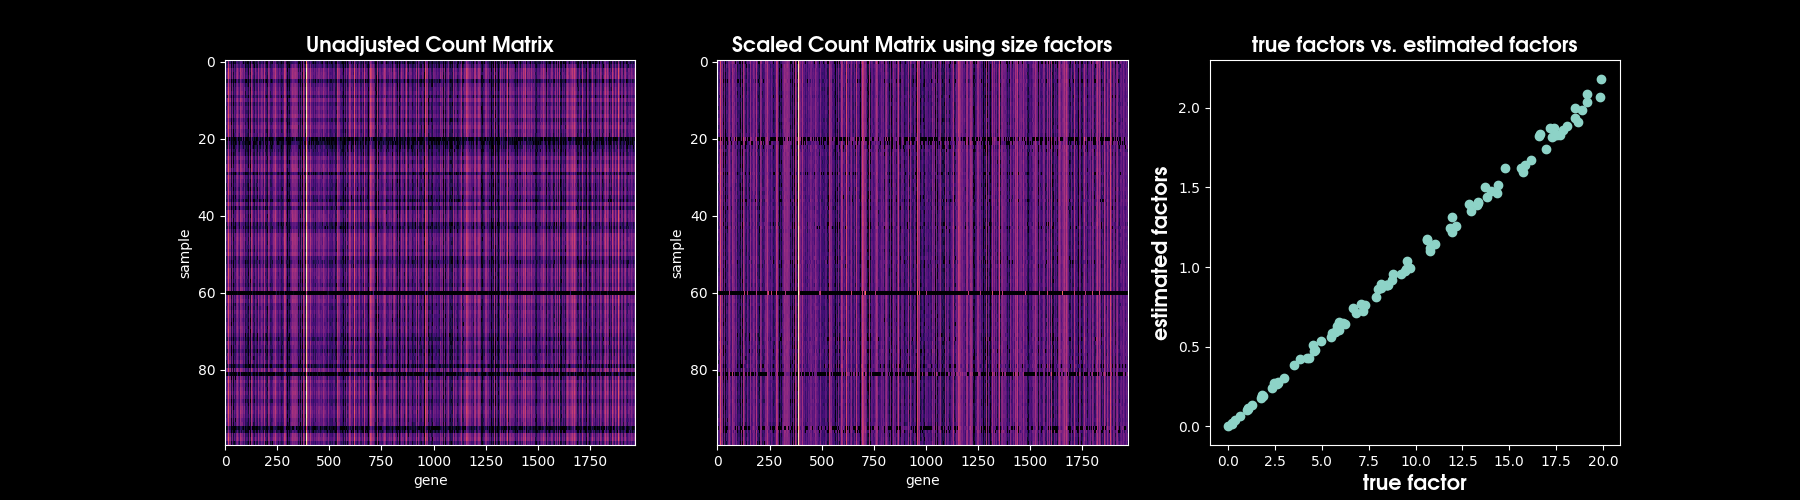
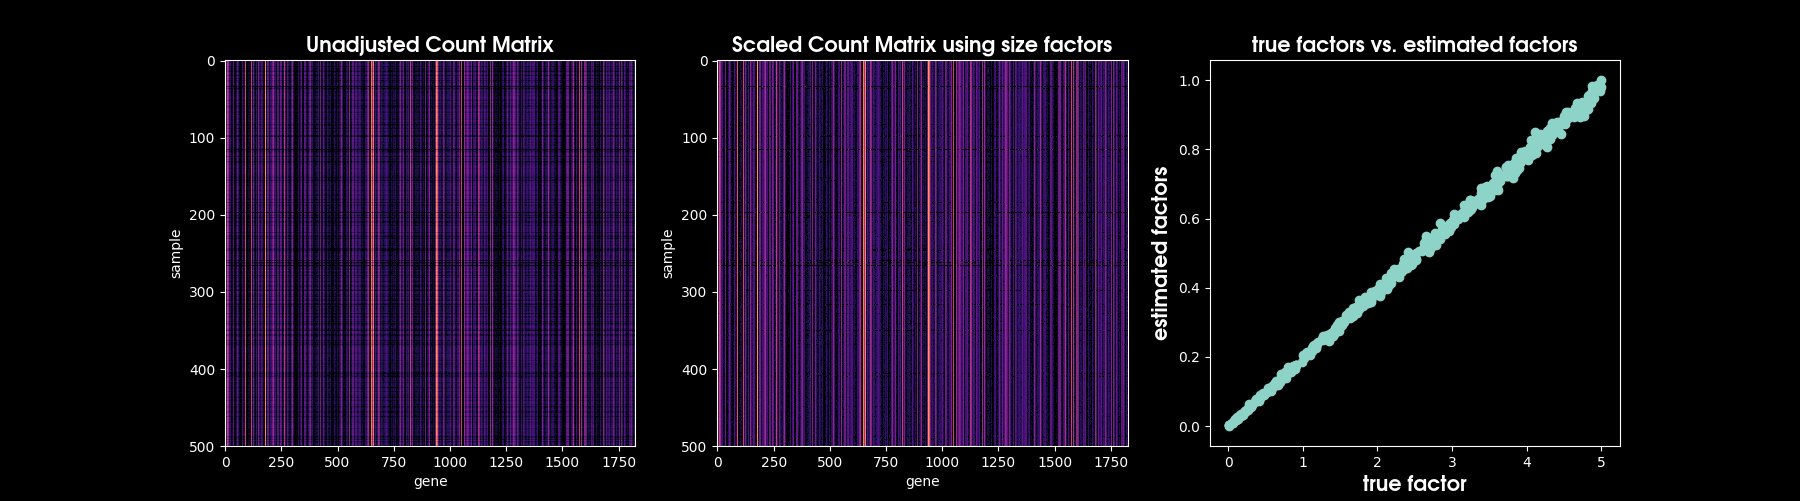
noralization and ratio change

diff --git a/GetSizeFactors.py b/GetSizeFactors.py
@@ -13,7 +13,7 @@ from scipy.stats import nbinom
 from scipy.optimize import lsq_linear
 
 def GetSizeFactors(cmat : np.ndarray,
-                   pool_size : int = 10,
+                   pool_size,
                    ) -> np.ndarray:
 
     """
@@ -94,24 +94,24 @@ def GetSizeFactors(cmat : np.ndarray,
                    for k in range(pools.shape[0])])
 
     # Pseudo cell expression profile for each gene
-    U = cmat.mean(axis=0).reshape(1,-1)
-
+    U = np.mean(Z,axis=0).reshape(1,-1)
     # Ratio of Pools and Reference
-    R = V / U
-
+    R = V / U 
     # Membership matrix for lstq
     A = np.zeros((pools.shape[0]*nsamples))
     A[pools1d] = 1.0
     # reshape memership vector into 2d matrix
     A = A.reshape((pools.shape[0],nsamples))
+
     #Matrix of estimatead theta/libsize values
     T = lsq_linear(A,
                    R.mean(axis=1),
                    bounds = (0,np.inf)).x
 
     # adjust for library size parameter
-    S = T * libsize
-
+    S =  T  * libsize
+    S = S / S.max() 
+    
     return S
 
 if __name__ == '__main__':
@@ -123,18 +123,19 @@ if __name__ == '__main__':
 
     # Simulate Dataset of non DE genes --------------------
 
-    nsamples = 100
+    nsamples = 500
     ngenes = 2000
     # parameters for nb distribution
-    n = np.repeat(np.random.randint(1,10,ngenes).reshape(1,-1),nsamples,axis = 0)
+    m = np.repeat(np.random.randint(1,10,ngenes).reshape(1,-1),nsamples,axis = 0)
     p = np.repeat(np.random.uniform(0,1,ngenes).reshape(1,-1),nsamples, axis = 0)
     # scaling factors for rate
-    theta = np.random.uniform(0,20,n.shape[0]).reshape(-1,1)
+    theta = np.random.uniform(0,5,m.shape[0]).reshape(-1,1)
     # scaled rate parameters
-    ns = n * theta
+    ns = m * theta
+    r = ns*(1-p) / p
 
     # generate synthetic count matrix
-    cmat = nbinom.rvs(n = ns,p = p)
+    cmat = nbinom.rvs(n = r,p = p)
     # remove bad samples and genes
     cmat = cmat[cmat.sum(axis = 1) > 50, :]
     cmat = cmat[:,cmat.sum(axis = 0) > 50]
